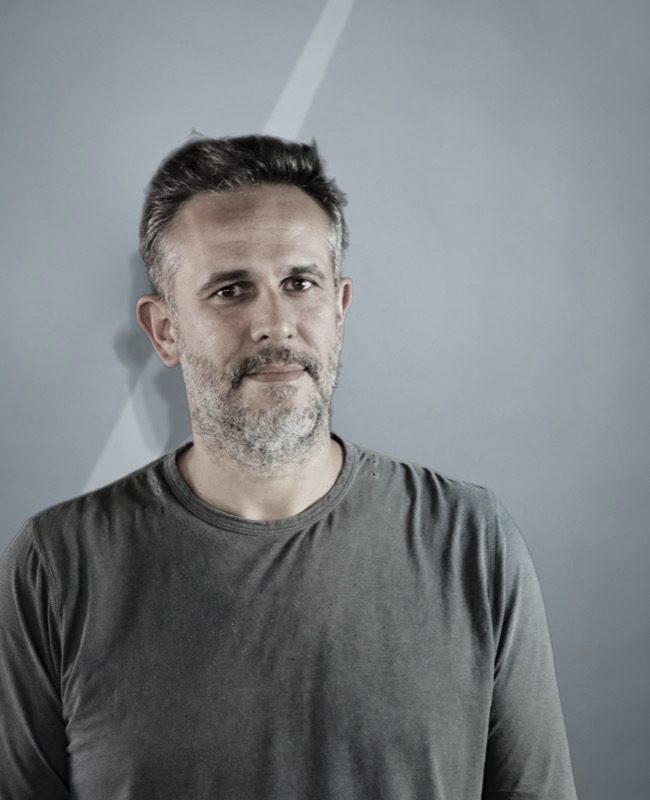
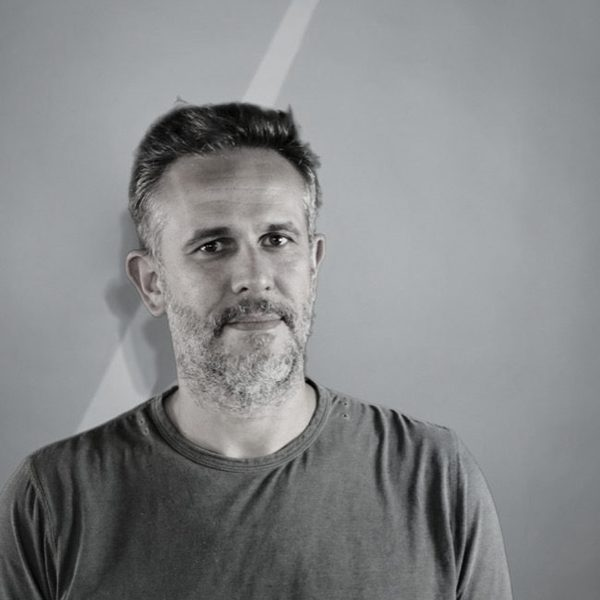
feat: recrop photos, fix signal-green contrast, add certifs/partners sections
Photos:
- Recrop all 3 staff photos to square with faces at upper 1/3
- Uniform 600x600 size, desaturated at 30%

Signal-green contrast fix:
- Add --color-signal-green-text (#4A6600) for WCAG AA on light backgrounds
- Replace text-signal-green with text-signal-green-text on all light-bg contexts
- Keep bright signal-green (#A5D900) on dark backgrounds only

À propos page:
- Update Cyril's bio and quote with new copy
- Add Certifications Cloud section (AWS, GCP, Azure, S3NS, Scaleway, OCI)
- Add Interfaces Techniques section (Oracle DB, Power BI, SAP, Salesforce, etc.)
- Add Partenaires section (Stanford, Deloitte, Infinitif, Oracle)
- Add brand identity link in CTA

Housekeeping:
- Add photosdesert/, photosv2/, photosstaff/ to .gitignore

diff --git a/src/app/a-propos/page.tsx b/src/app/a-propos/page.tsx
@@ -31,9 +31,9 @@ const COFOUNDERS: Cofounder[] = [
     photo: "/photos/staff-cyril-vegni.jpg",
     layer: "LAYER MÉTIER",
     name: "Cyril",
-    bio: "Fondateur d'Oxea et de Willing — deux cabinets vendus. Continue d'accompagner des clients en stratégie et change management. Sa mission : transformer le conseil pour qu'il apporte sa vraie valeur — du conseil augmenté par l'IA, hyper efficace et transparent.",
+    bio: "Fondateur et investisseur dans plusieurs cabinets de conseil, avec deux exits remarqués, il poursuit aujourd'hui son engagement auprès de ses clients en stratégie de transformation et en change management. Sa conviction : le conseil est appelé à disparaître s'il n'évolue pas. Sa mission : le réinventer en profondeur — faire émerger de véritables transformers.",
     tags: ["Risques", "Legal/Compliance", "Excellence opérationnelle", "Optimisation des ressources"],
-    quote: "Il transforme nos orchestrateurs en champions du métier.",
+    quote: "Combiner expertise humaine et puissance de l'IA pour un conseil réellement augmenté, plus transparent et tourné vers l'impact durable.",
   },
   {
     initials: "PD",
@@ -60,6 +60,40 @@ type Conviction = {
   title: string;
   body: string;
 };
+
+type Partner = {
+  name: string;
+  description: string;
+};
+
+const CLOUD_CERTIFICATIONS = [
+  { name: "AWS", full: "Amazon Web Services" },
+  { name: "GCP", full: "Google Cloud Platform" },
+  { name: "Azure", full: "Microsoft Azure" },
+  { name: "S3NS", full: "Thales / Google" },
+  { name: "Scaleway", full: "Scaleway Cloud" },
+  { name: "OCI", full: "Oracle Cloud" },
+];
+
+const TECHNICAL_INTERFACES = [
+  "Oracle Database",
+  "Power BI",
+  "Microsoft 365",
+  "SAP",
+  "Salesforce",
+  "PostgreSQL",
+  "MongoDB",
+  "Snowflake",
+  "Databricks",
+  "ServiceNow",
+];
+
+const PARTNERS: Partner[] = [
+  { name: "Stanford", description: "Recherche IA appliquée" },
+  { name: "Deloitte", description: "Audit & transformation" },
+  { name: "Infinitif", description: "Innovation data souveraine" },
+  { name: "Oracle", description: "Infrastructure & bases de données" },
+];
 
 const CONVICTIONS: Conviction[] = [
   {
@@ -129,7 +163,7 @@ function CofounderCard({ person, index }: { person: Cofounder; index: number }) 
         </div>
 
         {/* Layer badge */}
-        <span className="font-mono text-[11px] tracking-[0.2em] uppercase text-signal-green block mb-3">
+        <span className="font-mono text-[11px] tracking-[0.2em] uppercase text-signal-green-text block mb-3">
           {person.layer}
         </span>
 
@@ -287,7 +321,107 @@ export default function AProposPage() {
         </div>
       </section>
 
-      {/* ── Section 4: CTA ── */}
+      {/* ── Section 4: Certifications ── */}
+      <section className="bg-architect-paper py-24 lg:py-32 border-t border-chrome-light/70">
+        <div className="max-w-7xl mx-auto px-8 lg:px-20">
+          <Reveal className="mb-14">
+            <span className="font-mono text-xs tracking-[0.2em] uppercase text-chrome-dark block mb-3">
+              CERTIFICATIONS CLOUD
+            </span>
+            <h2
+              className="font-sans font-normal md:font-light text-system-green leading-tight"
+              style={{ fontSize: "clamp(1.8rem, 3.5vw, 3rem)" }}
+            >
+              Architectes certifiés. Multi-cloud.
+            </h2>
+          </Reveal>
+
+          <div className="grid grid-cols-2 sm:grid-cols-3 lg:grid-cols-6 gap-4">
+            {CLOUD_CERTIFICATIONS.map((cert, i) => (
+              <Reveal key={cert.name} delay={i * 0.07}>
+                <div className="border border-chrome-light bg-warm-paper p-5 flex flex-col gap-2">
+                  <span className="font-mono font-medium text-system-green tracking-wider text-sm">
+                    {cert.name}
+                  </span>
+                  <span className="font-mono text-[11px] text-steel tracking-wide leading-tight">
+                    {cert.full}
+                  </span>
+                  <span className="font-mono text-[10px] text-signal-green-text tracking-widest uppercase mt-1">
+                    Certified
+                  </span>
+                </div>
+              </Reveal>
+            ))}
+          </div>
+        </div>
+      </section>
+
+      {/* ── Section 5: Interfaces techniques ── */}
+      <section className="bg-warm-paper py-24 lg:py-32 border-t border-chrome-light/70">
+        <div className="max-w-7xl mx-auto px-8 lg:px-20">
+          <Reveal className="mb-14">
+            <span className="font-mono text-xs tracking-[0.2em] uppercase text-chrome-dark block mb-3">
+              INTERFACES TECHNIQUES
+            </span>
+            <h2
+              className="font-sans font-normal md:font-light text-system-green leading-tight"
+              style={{ fontSize: "clamp(1.8rem, 3.5vw, 3rem)" }}
+            >
+              Nous parlons à vos outils.
+            </h2>
+          </Reveal>
+
+          <Reveal delay={0.1}>
+            <div className="flex flex-wrap gap-3">
+              {TECHNICAL_INTERFACES.map((tool) => (
+                <span
+                  key={tool}
+                  className="font-mono text-[11px] tracking-[0.15em] uppercase px-4 py-2 border border-chrome-light text-steel bg-architect-paper"
+                >
+                  {tool}
+                </span>
+              ))}
+            </div>
+          </Reveal>
+        </div>
+      </section>
+
+      {/* ── Section 6: Partenaires ── */}
+      <section className="bg-architect-paper py-24 lg:py-32 border-t border-chrome-light/70">
+        <div className="max-w-7xl mx-auto px-8 lg:px-20">
+          <Reveal className="mb-14">
+            <span className="font-mono text-xs tracking-[0.2em] uppercase text-chrome-dark block mb-3">
+              PARTENAIRES
+            </span>
+            <h2
+              className="font-sans font-normal md:font-light text-system-green leading-tight"
+              style={{ fontSize: "clamp(1.8rem, 3.5vw, 3rem)" }}
+            >
+              Des appuis stratégiques.
+            </h2>
+          </Reveal>
+
+          <div className="grid grid-cols-1 sm:grid-cols-2 lg:grid-cols-4 gap-6">
+            {PARTNERS.map((partner, i) => (
+              <Reveal key={partner.name} delay={i * 0.1}>
+                <div className="border border-chrome-light bg-warm-paper p-8 flex flex-col gap-3 h-full">
+                  <h3
+                    className="font-sans font-normal md:font-light text-system-green leading-tight"
+                    style={{ fontSize: "clamp(1.1rem, 2vw, 1.35rem)" }}
+                  >
+                    {partner.name}
+                  </h3>
+                  <p className="font-sans text-sm text-ink/65 leading-relaxed">
+                    {partner.description}
+                  </p>
+                </div>
+              </Reveal>
+            ))}
+          </div>
+        </div>
+      </section>
+
+      {/* ── Section 7: CTA ── */}
       <section className="bg-system-green py-20 lg:py-28 text-center">
         <div className="max-w-3xl mx-auto px-8 lg:px-20">
           <Reveal>
@@ -306,6 +440,23 @@ export default function AProposPage() {
               Démarrer un projet
               <span aria-hidden="true">→</span>
             </Link>
+
+            <div className="mt-10 pt-8 border-t border-architect-paper/15">
+              <a
+                href="https://claude.ai/public/artifacts/f65dd573-0b8a-416a-a6d5-ea7b09faeaac"
+                target="_blank"
+                rel="noopener noreferrer"
+                className="group inline-flex items-center gap-2 font-mono text-xs tracking-widest uppercase text-architect-paper/50 hover:text-architect-paper/80 transition-colors duration-200"
+              >
+                Découvrir notre identité de marque
+                <span
+                  className="inline-block transition-transform duration-200 group-hover:translate-x-1"
+                  aria-hidden="true"
+                >
+                  →
+                </span>
+              </a>
+            </div>
           </Reveal>
         </div>
       </section>

diff --git a/src/app/agents/matchmaker/page.tsx b/src/app/agents/matchmaker/page.tsx
@@ -800,7 +800,7 @@ export default function MatchmakerPage() {
                   className={[
                     "font-mono text-[11px] tracking-[0.15em] px-3 py-1.5 border transition-all duration-200",
                     selectedOp === op.id
-                      ? "border-signal-green bg-signal-green/10 text-signal-green"
+                      ? "border-signal-green-text bg-signal-green/10 text-signal-green-text"
                       : "border-chrome text-steel hover:border-chrome-dark hover:text-ink",
                   ].join(" ")}
                 >
@@ -1167,7 +1167,7 @@ export default function MatchmakerPage() {
                 >
                   {tier.highlight && (
                     <div className="mb-4">
-                      <span className="font-mono text-[11px] tracking-widest text-signal-green uppercase border border-signal-green px-2 py-0.5">
+                      <span className="font-mono text-[11px] tracking-widest text-signal-green-text uppercase border border-signal-green-text px-2 py-0.5">
                         Recommandé
                       </span>
                     </div>
@@ -1180,7 +1180,7 @@ export default function MatchmakerPage() {
                     <span
                       className={[
                         "font-mono font-medium text-2xl",
-                        tier.highlight ? "text-signal-green" : "text-ink",
+                        tier.highlight ? "text-signal-green-text" : "text-ink",
                       ].join(" ")}
                     >
                       {tier.price}
@@ -1196,7 +1196,7 @@ export default function MatchmakerPage() {
                     <ul className="space-y-2">
                       {tier.features.map(feat => (
                         <li key={feat} className="flex items-start gap-2 font-mono text-[11px] text-ink/75">
-                          <span className="text-signal-green shrink-0 mt-0.5">✓</span>
+                          <span className="text-signal-green-text shrink-0 mt-0.5">✓</span>
                           {feat}
                         </li>
                       ))}
@@ -1209,7 +1209,7 @@ export default function MatchmakerPage() {
                       className={[
                         "group inline-flex items-center gap-2 w-full justify-center border px-6 py-3 font-mono text-xs tracking-widest uppercase transition-all duration-200",
                         tier.highlight
-                          ? "border-signal-green text-signal-green hover:bg-signal-green hover:text-system-green"
+                          ? "border-signal-green-text text-signal-green-text hover:bg-signal-green hover:text-system-green"
                           : "border-rule text-steel hover:border-chrome-dark hover:text-ink",
                       ].join(" ")}
                     >

diff --git a/src/app/agents/sailor/page.tsx b/src/app/agents/sailor/page.tsx
@@ -702,7 +702,7 @@ export default function SailorPage() {
                   className={[
                     "font-mono text-[11px] tracking-[0.15em] px-3 py-1.5 border transition-all duration-200",
                     selectedOp === op.id
-                      ? "border-signal-green bg-signal-green/10 text-signal-green"
+                      ? "border-signal-green-text bg-signal-green/10 text-signal-green-text"
                       : "border-chrome text-steel hover:border-chrome-dark hover:text-ink",
                   ].join(" ")}
                 >
@@ -1030,7 +1030,7 @@ export default function SailorPage() {
                 >
                   {tier.highlight && (
                     <div className="mb-4">
-                      <span className="font-mono text-[11px] tracking-widest text-signal-green uppercase border border-signal-green px-2 py-0.5">
+                      <span className="font-mono text-[11px] tracking-widest text-signal-green-text uppercase border border-signal-green-text px-2 py-0.5">
                         Recommandé
                       </span>
                     </div>
@@ -1043,7 +1043,7 @@ export default function SailorPage() {
                     <span
                       className={[
                         "font-mono font-medium text-2xl",
-                        tier.highlight ? "text-signal-green" : "text-ink",
+                        tier.highlight ? "text-signal-green-text" : "text-ink",
                       ].join(" ")}
                     >
                       {tier.price}
@@ -1059,7 +1059,7 @@ export default function SailorPage() {
                     <ul className="space-y-2">
                       {tier.features.map(feat => (
                         <li key={feat} className="flex items-start gap-2 font-mono text-[11px] text-ink/75">
-                          <span className="text-signal-green shrink-0 mt-0.5">✓</span>
+                          <span className="text-signal-green-text shrink-0 mt-0.5">✓</span>
                           {feat}
                         </li>
                       ))}
@@ -1072,7 +1072,7 @@ export default function SailorPage() {
                       className={[
                         "group inline-flex items-center gap-2 w-full justify-center border px-6 py-3 font-mono text-xs tracking-widest uppercase transition-all duration-200",
                         tier.highlight
-                          ? "border-signal-green text-signal-green hover:bg-signal-green hover:text-system-green"
+                          ? "border-signal-green-text text-signal-green-text hover:bg-signal-green hover:text-system-green"
                           : "border-rule text-steel hover:border-chrome-dark hover:text-ink",
                       ].join(" ")}
                     >

diff --git a/src/app/agents/pilot/page.tsx b/src/app/agents/pilot/page.tsx
@@ -720,7 +720,7 @@ export default function PilotPage() {
                   className={[
                     "font-mono text-[11px] tracking-[0.15em] px-3 py-1.5 border transition-all duration-200",
                     selectedOp === op.id
-                      ? "border-signal-green bg-signal-green/10 text-signal-green"
+                      ? "border-signal-green-text bg-signal-green/10 text-signal-green-text"
                       : "border-chrome text-steel hover:border-chrome-dark hover:text-ink",
                   ].join(" ")}
                 >
@@ -1038,7 +1038,7 @@ export default function PilotPage() {
                 >
                   {tier.highlight && (
                     <div className="mb-4">
-                      <span className="font-mono text-[11px] tracking-widest text-signal-green uppercase border border-signal-green px-2 py-0.5">
+                      <span className="font-mono text-[11px] tracking-widest text-signal-green-text uppercase border border-signal-green-text px-2 py-0.5">
                         Recommandé
                       </span>
                     </div>
@@ -1051,7 +1051,7 @@ export default function PilotPage() {
                     <span
                       className={[
                         "font-mono font-medium text-2xl",
-                        tier.highlight ? "text-signal-green" : "text-ink",
+                        tier.highlight ? "text-signal-green-text" : "text-ink",
                       ].join(" ")}
                     >
                       {tier.price}
@@ -1067,7 +1067,7 @@ export default function PilotPage() {
                     <ul className="space-y-2">
                       {tier.features.map(feat => (
                         <li key={feat} className="flex items-start gap-2 font-mono text-[11px] text-ink/75">
-                          <span className="text-signal-green shrink-0 mt-0.5">✓</span>
+                          <span className="text-signal-green-text shrink-0 mt-0.5">✓</span>
                           {feat}
                         </li>
                       ))}
@@ -1080,7 +1080,7 @@ export default function PilotPage() {
                       className={[
                         "group inline-flex items-center gap-2 w-full justify-center border px-6 py-3 font-mono text-xs tracking-widest uppercase transition-all duration-200",
                         tier.highlight
-                          ? "border-signal-green text-signal-green hover:bg-signal-green hover:text-system-green"
+                          ? "border-signal-green-text text-signal-green-text hover:bg-signal-green hover:text-system-green"
                           : "border-rule text-steel hover:border-chrome-dark hover:text-ink",
                       ].join(" ")}
                     >

diff --git a/src/app/systemes/page.tsx b/src/app/systemes/page.tsx
@@ -361,7 +361,7 @@ function ContactForm() {
       <motion.p
         initial={{ opacity: 0 }}
         animate={{ opacity: 1 }}
-        className="font-mono text-sm text-signal-green"
+        className="font-mono text-sm text-signal-green-text"
         role="status"
         aria-live="polite"
       >
@@ -552,7 +552,7 @@ export default function SystemesPage() {
                       </p>
                       <div className="flex items-center gap-2">
                         <span className="w-1.5 h-1.5 rounded-full bg-signal-green flex-shrink-0" aria-hidden="true" />
-                        <span className="font-mono text-[11px] uppercase tracking-[0.18em] text-signal-green">
+                        <span className="font-mono text-[11px] uppercase tracking-[0.18em] text-signal-green-text">
                           {level.status}
                         </span>
                       </div>

diff --git a/src/app/page.tsx b/src/app/page.tsx
@@ -129,13 +129,13 @@ function HeroSection() {
           transition={{ duration: 0.5, delay: 0.2 }}
           className="flex items-center gap-2 mb-12"
         >
-          <span className="font-mono text-xs tracking-[0.2em] uppercase text-signal-green">
+          <span className="font-mono text-xs tracking-[0.2em] uppercase text-signal-green-text">
             STATUT
           </span>
-          <span className="text-signal-green text-[11px]" aria-hidden="true">
+          <span className="text-signal-green-text text-[11px]" aria-hidden="true">
             ●
           </span>
-          <span className="font-mono text-xs tracking-[0.2em] uppercase text-signal-green">
+          <span className="font-mono text-xs tracking-[0.2em] uppercase text-signal-green-text">
             ACTIF
           </span>
         </motion.div>

diff --git a/src/app/custom/page.tsx b/src/app/custom/page.tsx
@@ -385,7 +385,7 @@ function VoteCard({
           "border transition-all duration-200",
           "focus-visible:outline focus-visible:outline-2 focus-visible:outline-offset-2 focus-visible:outline-signal-green",
           voted
-            ? "border-signal-green text-signal-green bg-architect-paper"
+            ? "border-signal-green-text text-signal-green-text bg-architect-paper"
             : "border-chrome text-chrome-dark bg-architect-paper hover:border-chrome-dark hover:text-ink",
         ].join(" ")}
       >

diff --git a/src/app/globals.css b/src/app/globals.css
@@ -10,6 +10,7 @@
 
   /* Signal — the ONLY saturated color. Used for active/live states ONLY */
   --color-signal-green: #A5D900;
+  --color-signal-green-text: #4A6600; /* Darker signal for text on light backgrounds — WCAG AA compliant */
 
   /* Paper tones — warm neutrals */
   --color-architect-paper: #F0EEEB;    /* Primary background — warm off-white */
